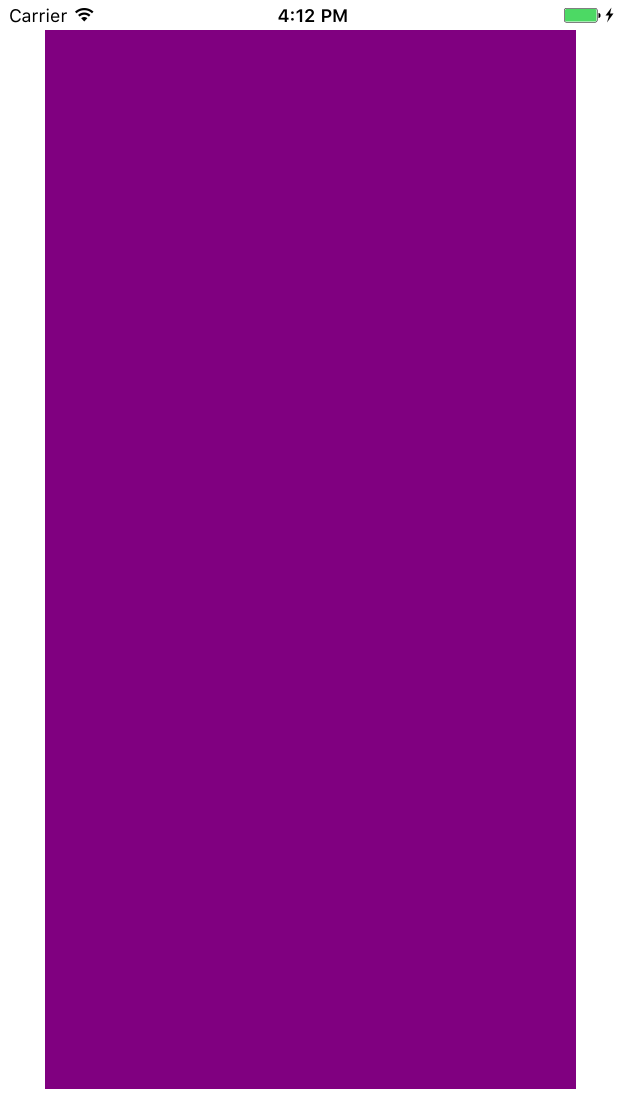
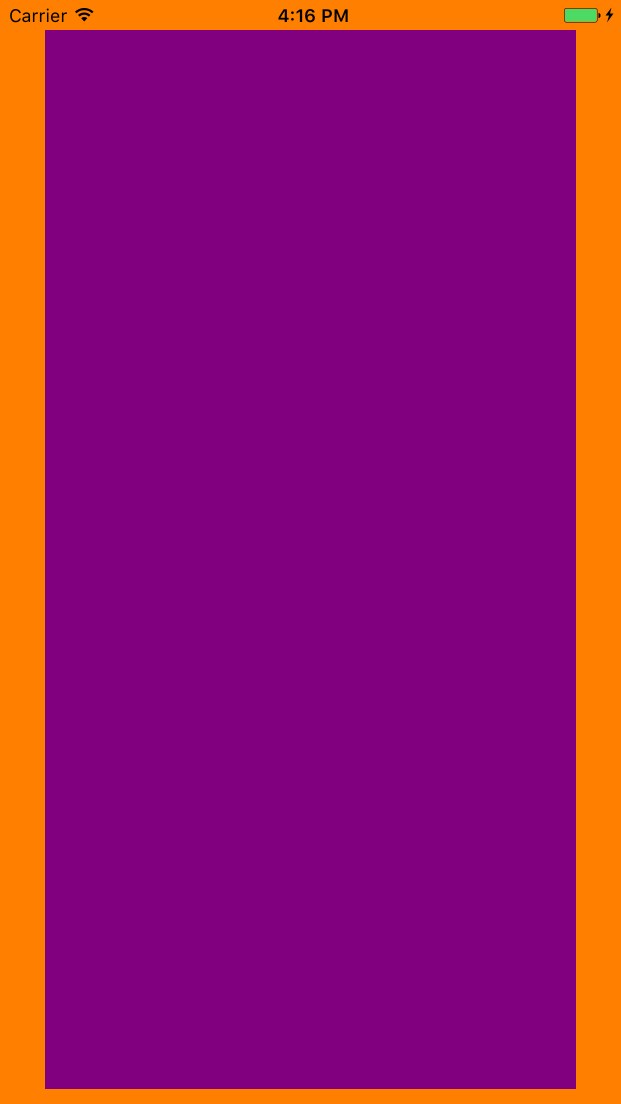
Added screenshots

Changed region(s): [[0.0, 0.0, 1.0, 1.0]]

diff --git a/SimpleUIViewSubclass/SimpleUIViewSubclass/ViewController.swift b/SimpleUIViewSubclass/SimpleUIViewSubclass/ViewController.swift
@@ -26,7 +26,8 @@ class ViewController: UIViewController {
     
     override func viewDidLoad() {
         super.viewDidLoad()
-
+        self.view.backgroundColor = .orange
+        
         buildView()
     }
 
